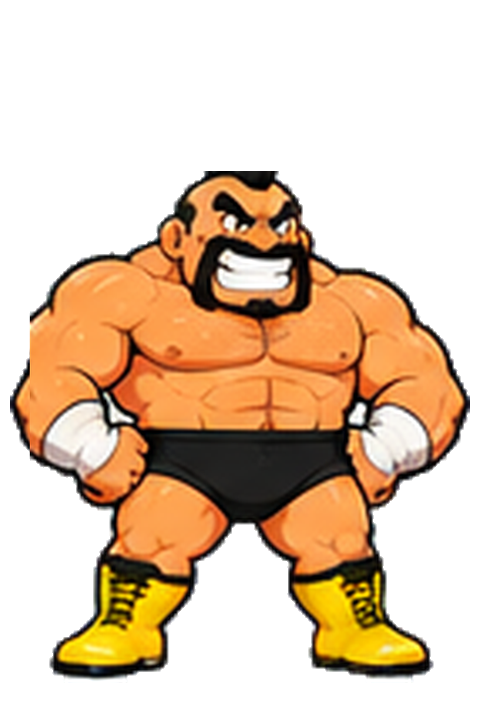
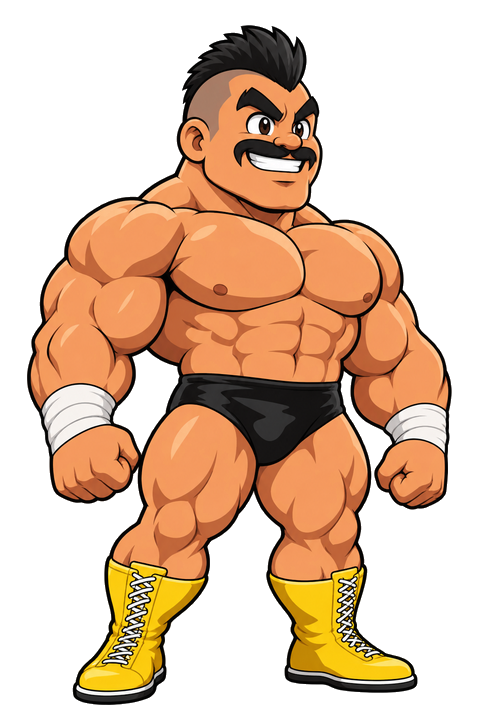
feat(art): 新しい立ち絵に差し替え、キャラ選択のカードに大きく出す

diff --git a/src/scenes/scenes.ts b/src/scenes/scenes.ts
@@ -186,21 +186,32 @@ export class SelectScene implements Scene {
       const x = left + i * (cardW + gap);
       ctx.fillStyle = '#2a2a44';
       ctx.fillRect(x, top, cardW, cardH);
-      // 立ち絵（画像が無ければ代わりのキャラ）。カードの枠に収める
-      ctx.save();
-      ctx.beginPath();
-      ctx.rect(x + 10, top + 10, 90, 160);
-      ctx.clip();
-      drawPortrait(ctx, this.game.sprites, char, this.game.params, 'idle', x + 55, top + 165, { scale: 0.3, fallbackScale: 0.9 });
-      ctx.restore();
+      // 立ち絵。カードの左の欄（幅150）に、縦横の比を保って下揃えで収める。無ければ待機ポーズ
+      const portrait = this.game.sprites?.get(char.id, 'portrait');
+      const colW = 150;
+      if (portrait) {
+        const boxH = cardH - 20;
+        const s = Math.min(colW / portrait.naturalWidth, boxH / portrait.naturalHeight);
+        const w = portrait.naturalWidth * s;
+        const h = portrait.naturalHeight * s;
+        ctx.drawImage(portrait, x + 8 + (colW - w) / 2, top + 10 + boxH - h, w, h);
+      } else {
+        ctx.save();
+        ctx.beginPath();
+        ctx.rect(x + 10, top + 10, colW - 10, 160);
+        ctx.clip();
+        drawPortrait(ctx, this.game.sprites, char, this.game.params, 'idle', x + 8 + colW / 2, top + 165, { scale: 0.3, fallbackScale: 0.9 });
+        ctx.restore();
+      }
+      const textX = x + colW + 16;
       ctx.fillStyle = '#fff';
       ctx.textAlign = 'left';
       ctx.font = 'bold 30px sans-serif';
-      ctx.fillText(char.name, x + 120, top + 50);
+      ctx.fillText(char.name, textX, top + 50);
       ctx.font = '18px sans-serif';
       ctx.fillStyle = '#fc3';
-      ctx.fillText(charType(char), x + 120, top + 80);
-      drawMoveList(ctx, char, x + 120, top + 115, 'left', cardW - 130);
+      ctx.fillText(charType(char), textX, top + 80);
+      drawMoveList(ctx, char, textX, top + 115, 'left', x + cardW - 10 - textX);
     });
     const labels = ['1P', this.mode === 'cpu' ? 'CPU' : '2P'];
     const colors = ['#f55', '#59f'];
